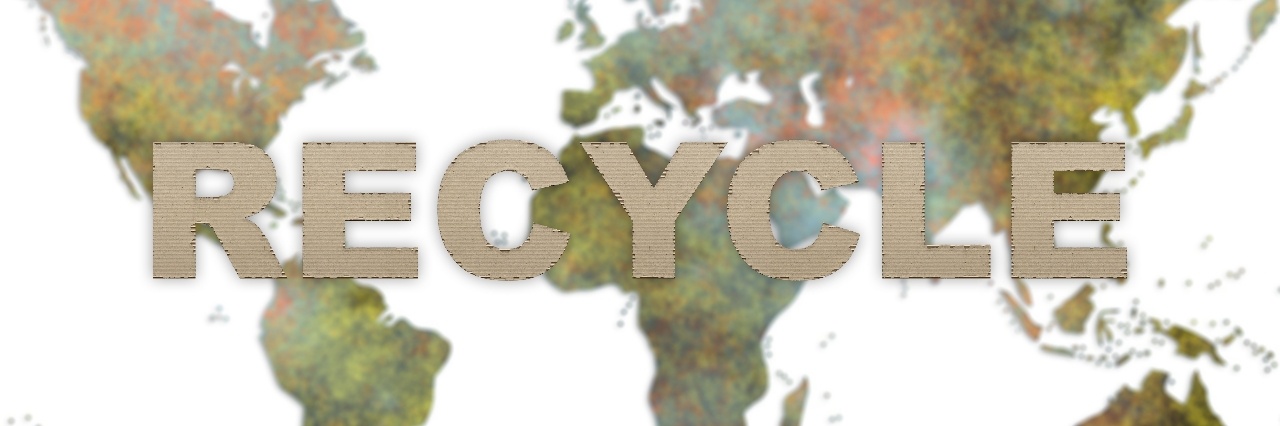
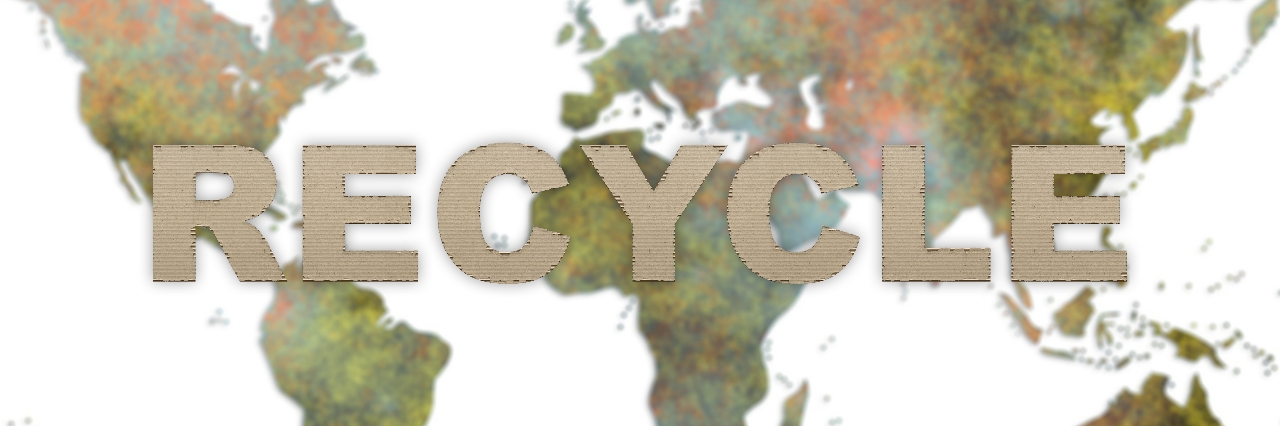
jquery function read-more read-less + correction of Tiphaine work

diff --git a/public/build/app.js b/public/build/app.js
@@ -437,7 +437,7 @@ module.exports = "/build/images/menage-hygiene-maison.0826cfef.jpg";
 /*! no static exports found */
 /***/ (function(module, exports) {
 
-module.exports = "/build/images/recyclage.05a1d46a.jpg";
+module.exports = "/build/images/recyclage.0ac6ed5f.jpg";
 
 /***/ }),
 
@@ -570,4 +570,4 @@ $(app.init);
 /***/ })
 
 /******/ });
[2 lines of base64/hex data omitted]

diff --git a/assets/js/feedback.js b/assets/js/feedback.js
@@ -1,24 +1,45 @@
 import '../css/feedback.scss';
 
-console.log('hello');
-
 $(document).ready(function(){
     var maxLength = 150;
-    $(".feedback").each(function(){
-        var myStr = $(this).text();
-        if($.trim(myStr).length > maxLength){
-            var newStr = myStr.substring(0, maxLength);
-            var removedStr = myStr.substring(maxLength, $.trim(myStr).length);
-            $(this).empty().html(newStr);
-            $(this).append(' <a href="javascript:void(0);" class="read-more">read more...</a>');
-            $(this).append('<span class="more-text">' + removedStr + '</span>');
+    readMore();
 
-        }
-    });
+    function readMore()
+    {
+        $(".feedback").each(function(){
+            var myStr = $(this).text();
+            if($.trim(myStr).length > maxLength){
+                var newStr = myStr.substring(0, maxLength);
+                var removedStr = myStr.substring(maxLength, $.trim(myStr).length);
+                $(this).empty().html(newStr);
+                $(this).append(' <a href="javascript:void(0);" class="read-more">lire la suite...</a>');
+                $(this).append('<span class="more-text">' + removedStr + '</span>');
+                
+                
+            }
+        });
 
-    $(".read-more").click(function(){
-        $(this).siblings(".more-text").contents().unwrap();
-        $(this).remove();
-    });
+        $(".read-more").click(function(){
+            $(this).siblings(".more-text").contents().unwrap();
+            $(".read-more").remove();
+            myFunction();
+    
+        });
+    }
 
+
+    function readLess()
+    {
+        $(".feedback").each(function(){
+            var myStr = $(this).text();
+            $(this).append(' <a href="javascript:void(0);" class="read-less">refermer...</a>'); 
+        });
+
+        $(".read-less").click(function(){
+            $(".read-less").remove();
+            cettefonctionlademerde();
+        });
+    }
+    
 });
+

diff --git a/assets/css/homepage.scss b/assets/css/homepage.scss
@@ -327,11 +327,34 @@ ALL TEXT IN CARD (after image)
 
     .card-paragraph-summary 
     {
-        height: 100px;
-        margin: 2vh 3vw 1vh 5vw;
+        height: 60px;
+        display: -webkit-box;
+        -webkit-line-clamp: 3;
+        -webkit-box-orient: vertical;
         overflow: hidden;
         text-overflow: ellipsis;
-        white-space: nowrap;
+        margin: 2vh 3vw 2vh 5vw;
+
+        @media(min-width: 768px)
+        {
+            height: 45px;
+            display: -webkit-box;
+            -webkit-line-clamp: 2;
+            -webkit-box-orient: vertical;
+            overflow: hidden;
+            text-overflow: ellipsis;
+        }
+
+        @media(min-width: 992px)
+        {
+            height: 80px;
+            display: -webkit-box;
+            -webkit-line-clamp: 4;
+            -webkit-box-orient: vertical;
+            overflow: hidden;
+            text-overflow: ellipsis;
+        }
+
 
     }
 

diff --git a/assets/css/board.scss b/assets/css/board.scss
@@ -1,8 +1,22 @@
+.flex-md-row
+{
+
+    @media (min-width: 768px) 
+    { 
+        display: flex;
+        flex-direction: row;
+        justify-content: space-around;
+        flex-wrap: wrap;
+    }
+}
+
 .card-custum
 {
     width: 90%;
     margin: auto;
     margin-top: 2em;
+
+
 
     @media (min-width: 450px) and (max-width: 600px)
     {
@@ -17,6 +31,10 @@
     @media (min-width: 768px) 
     { 
         width: 40%;
+        img
+        {
+            height: 250px;
+        }
     }
 
     @media (min-width: 1200px)

diff --git a/assets/css/feedback.scss b/assets/css/feedback.scss
@@ -12,7 +12,7 @@ Container of all infomation of user and feeback
 .userFeedback
 {
     margin-top: 1em;
-    background-color:#bacf8e;
+    background-color:#d1e6a4;
     display: flex;
     flex-direction: row;
     min-height: 240px;

diff --git a/assets/css/article_details.scss b/assets/css/article_details.scss
@@ -66,8 +66,8 @@ CARD
 {
     max-width: 100%;
     height: auto;
-    border-top-right-radius: 30px;
-    border-top-left-radius: 30px;
+    border-top-right-radius: 15px;
+    border-top-left-radius: 15px;
 }
 
 

diff --git a/src/Controller/ArticleController.php b/src/Controller/ArticleController.php
@@ -255,9 +255,10 @@ class ArticleController extends AbstractController
             "user" => $this->getUser(),
             "article" => $article
         ]);
-
+        
+        $article_id = $article->getId();
         /** @var FeedbackRepository */
-        $feedback = $this->getDoctrine()->getRepository(Feedback::class)->findAll();
+        $feedback = $this->getDoctrine()->getRepository(Feedback::class)->findbyDate($article_id);
         
 
         /********
@@ -310,7 +311,8 @@ class ArticleController extends AbstractController
                 'article' => $article,
                 'vote' => $vote,
                 'flag' => $flag,
-                'feedback' => $existingFeedback
+                'feedback' => $existingFeedback,
+                'allFeedback' => $feedback
             ]
         );
     }

diff --git a/src/Repository/FeedbackRepository.php b/src/Repository/FeedbackRepository.php
@@ -31,6 +31,21 @@ class FeedbackRepository extends ServiceEntityRepository
             ->getResult()
         ;
     }
+    public function findByDate($article_id) 
+    {
+        $qb = $this->createQueryBuilder('f')
+        ->select('f.id, f.comment, f.created_at, f.flaggedUp, u.username, u.avatar user_avatar ')
+        ->andWhere('f.article = :val')
+        ->innerJoin('App\Entity\Article', 'a', 'WITH', 'a = f.article')
+        ->innerJoin('App\Entity\User', 'u', 'WITH', 'u = f.user')
+        ->setParameter('val', $article_id)
+        ->orderBy('f.created_at', 'DESC')
+        ->getQuery()
+        ->getResult();
+        
+        return $qb;
+    }
+
     // /**
     //  * @return Feedback[] Returns an array of Feedback objects
     //  */

diff --git a/src/Form/Type/ArticleType.php b/src/Form/Type/ArticleType.php
@@ -90,9 +90,9 @@ class ArticleType extends AbstractType
                 'aspect_ratios' => [],
                 'cropper_options'=> [
                     'aspectRatio'=> 3,
-                    'viewMode' => 2,
+                    'viewMode' => 0,
                     'minCropBoxWidth' => 1280,
-                    'minCropBoxHeight' => 1280,
+                    'minCropBoxHeight' => 720,
                     
                 ],
                 'preview_height' => 66,
